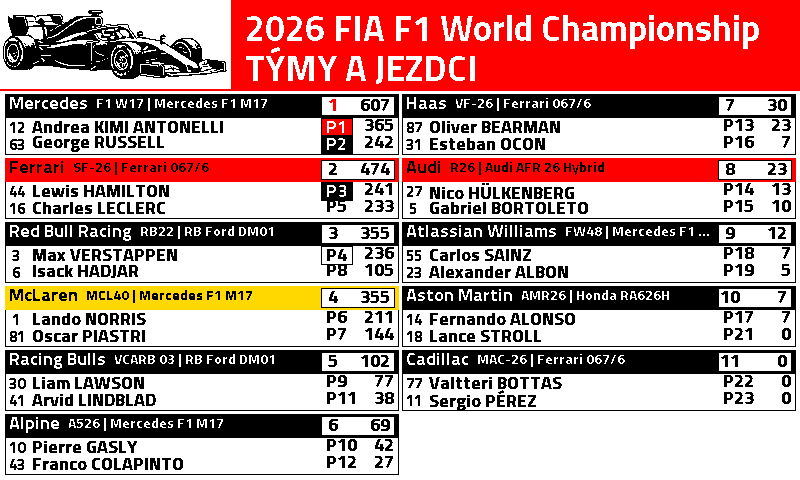
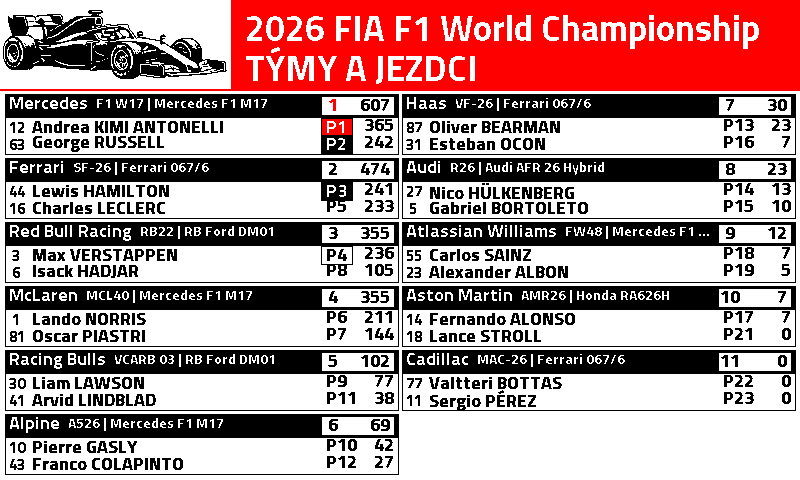
assets: after/ previews without coloured headers

Changed region(s): [[0.0, 0.3125, 1.0, 0.4062], [0.0, 0.5938, 0.5, 0.6562]]

diff --git a/README.md b/README.md
@@ -1,3 +1,3 @@
-# PR assets: teams screen without badges + team-coloured headers
+# PR assets: teams screen without badges
 
-Preview renders (800x480) for the PR from feat/teams-no-badges. before/ = main with badges, after/ = branch. Not for merging.
+Preview renders (800x480) for PR #163 (feat/teams-no-badges). before/ = main with abbreviation badges, after/ = branch (badges removed, wider driver names, black headers). Not for merging.
